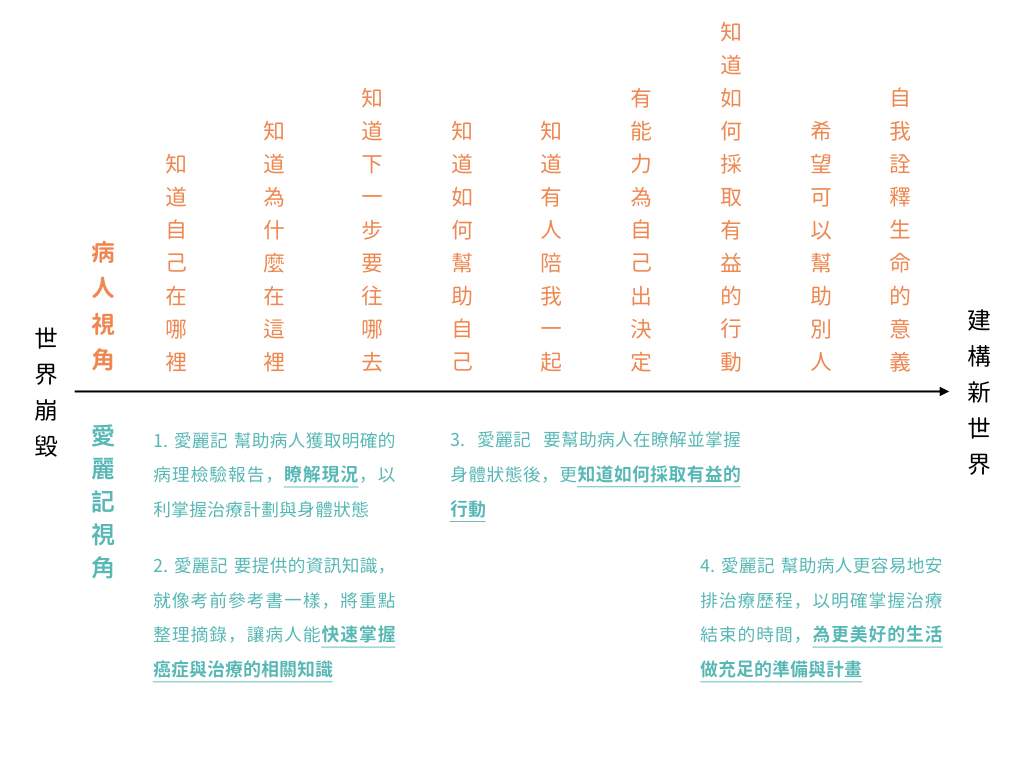
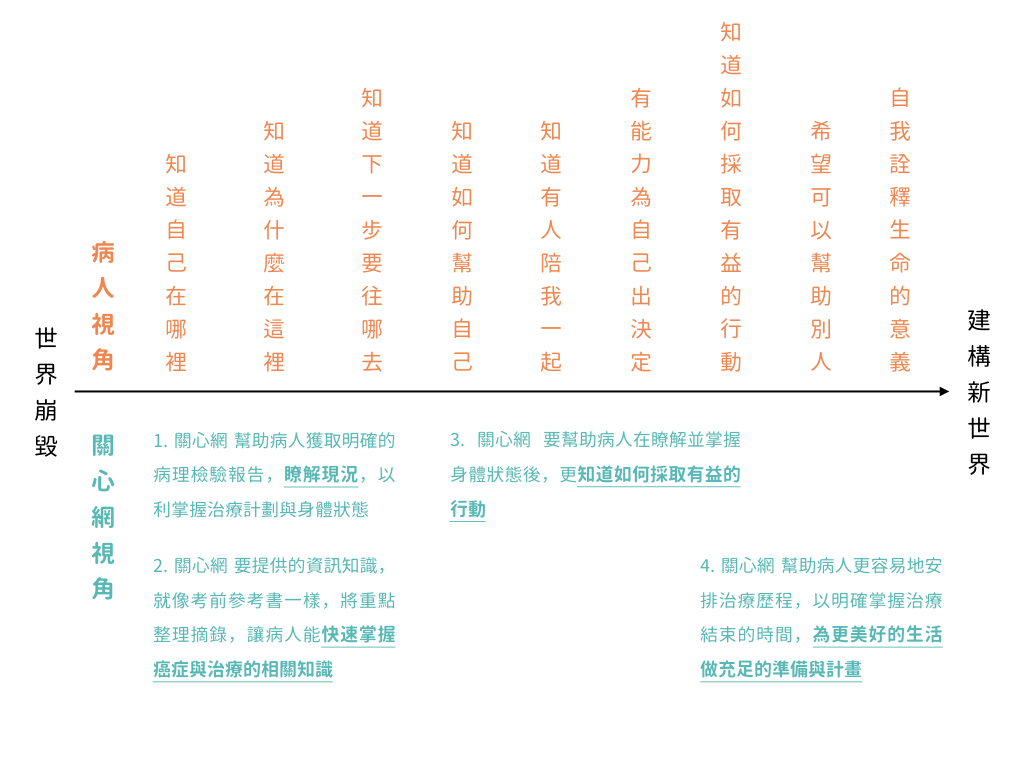
img text update

diff --git a/index.html b/index.html
@@ -609,14 +609,16 @@
                             </h2>
                             <p class="note">由於合作關係簽訂的保密協議，在本案例中會模糊混淆部分重要訊息，僅顯示個人想法及設計流程整理，並不完全反映 CARINGLOOP 關心網與所有合作夥伴的觀點。</p>
                             <img src="img/portfolio/aliceapp.png" class="img-responsive img-centered" alt="guideline">
-                            <p>
-                                愛麗記 App 是為協助乳癌病人記錄每日身體變化，了解相似病人常見提問與回答，在確診乳癌後就像夢遊仙境的愛麗絲一樣，掉進一個又深又詭異的兔子洞。這些愛麗絲們有相同的煩惱與話題，而共同的目標就是打敗生病大魔王，發現更美好的自己。愛麗記 Alice，會陪伴病人走這一段不容易的生命歷程。
-                            </p>
-                            <h3 class="app-subtitle">定義問題與脈絡｜Background & Problems</h3>
+                            <h3 class="app-subtitle">專案背景與定義問題｜Background & Problems</h3>
                             <img src="img/portfolio/alice_defq.jpeg" class="img-responsive img-centered" alt="guideline">
+                            <p> 
+                                隨著癌症發生率日漸攀升，癌症已經是我們生活周遭容易聽到、見到的疾病。癌症一旦發生，對於病人及其周遭家人的日常家庭生活仍會產生不小的影響。對於病人與家屬而言，最重要的第一步是<strong>「知道如何做出正確的決策」</strong>，因為每一次的決策都影響了後續生活型態包含醫療流程安排與日常生活的安排。因此我們致力於提升人們的癌症知能，透過讓與癌共存的家庭知悉現況與下一步的樣貌，<strong>提升病人與家屬在「醫病溝通」上的效率</strong>，並使其能做出每一次正確的決定。
+                                <br>
+                                Caringloop 關心網透過對<strong>「癌症病人及其家屬」的實際生活研究</strong>，同時<strong>與醫院合作、結合對醫療體系服務流程的洞察</strong>，搭建一個能流暢串連醫療方、社會與癌症家庭的分享交流平台，並從中提供線上與線下全方位的癌症生活整合服務，幫助病人在離開醫院之後，不管身體或心理依然受到良好的照護，<strong>避免承受更多不必要的痛苦</strong>。
+                            </p>
                             <h3 class="app-subtitle">產品目標與解法｜Goal & Solutions</h3>
+                            <img src="img/portfolio/alice_pd.jpeg" class="img-responsive img-centered" alt="guideline">
                             <p>
-                                <img src="img/portfolio/alice_pd.jpeg" class="img-responsive img-centered" alt="guideline">
                                 為了幫助疑似罹癌後，手足無措的<strong>癌症病人與家屬</strong>，解決他們<strong>想要為病人做些什麼</strong>，但卻沒有明確的指引與目標，也不知如何做好準備與規劃，繼而無法採取有效行動的問題，並幫助病人和醫生、醫院之間建立起更好的連結，讓專業有效的知識可以<strong>避免病人承受不必要的痛苦</strong>，進而<strong>降低社會醫療成本</strong>，而產品則從打造一個<strong>促進醫病雙方分享病人身體記錄及治療資訊的平台</strong>開始。
                             </p>
                             <h3 class="app-subtitle">我做的事｜What I did</h3>
